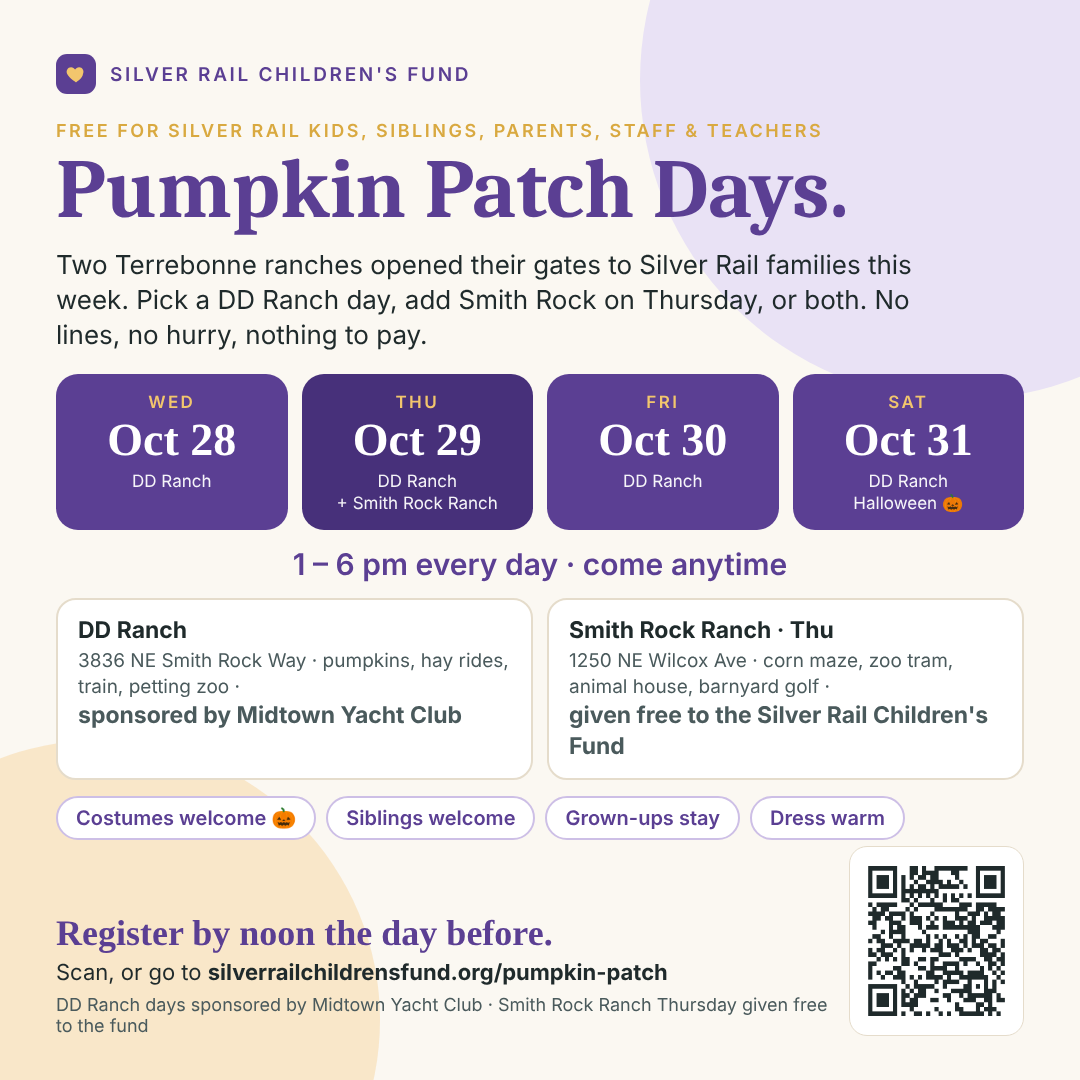
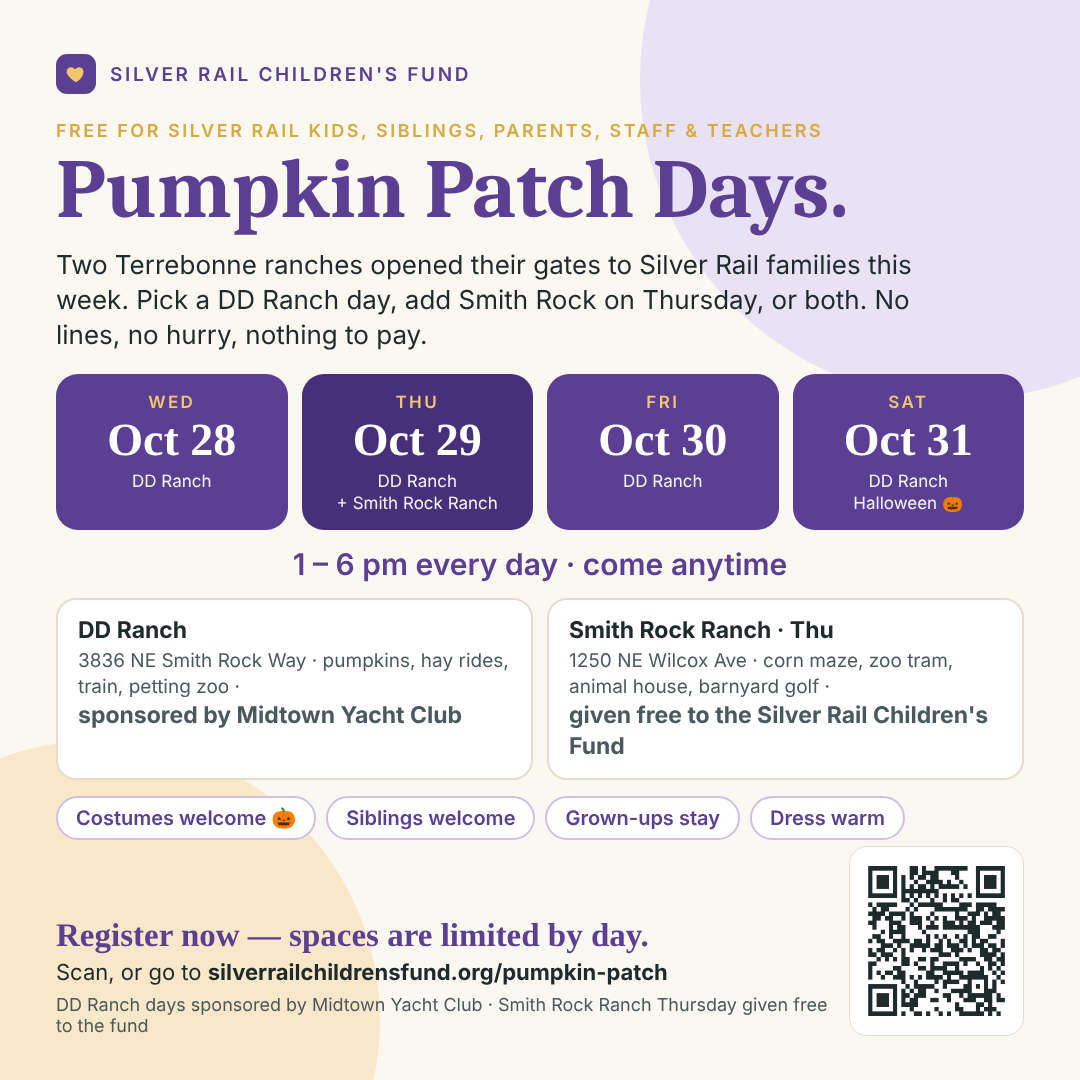
Register now, spaces limited by day

Changed region(s): [[0.0611, 0.8556, 0.6111, 0.8861]]

diff --git a/pumpkin-patch.html b/pumpkin-patch.html
@@ -177,7 +177,7 @@ footer.sf .sf-legal a{color:var(--ink-2)}
     <h1>Four afternoons at the patch, for Silver Rail families.</h1>
     <p class="lede">Two Terrebonne ranches have opened their gates to Silver Rail families this week, <b>1 pm to 6 pm each day, free for Silver Rail kids, their siblings, and their parents, and for Silver Rail staff and teachers and their children</b>. <b>DD Ranch</b> is hosting Wednesday through Saturday, October 28–31, with Silver Rail kids' admission paid by Midtown Yacht Club. <b>Smith Rock Ranch</b> is hosting Thursday, October 29, as an in-kind donation to the fund. Pick a DD Ranch day, come to Smith Rock on Thursday, or do both. Come as you are.</p>
     <p class="lede" style="font-size:1.05rem">Why a pumpkin patch? Because for a child who was at Silver Rail on October 15, an ordinary fall afternoon with classmates is not a break from recovery. It is recovery. These are the fund's first outings, and they're the ones we set out to make happen on day one.</p>
-    <a class="btn" href="#register">Register your family</a>
+    <a class="btn" href="#register">Register now — spaces are limited by day</a>
   </div>
 </div>
 
@@ -226,7 +226,7 @@ footer.sf .sf-legal a{color:var(--ink-2)}
 <section id="register">
   <div class="wrap">
     <div class="eyebrow">Register</div>
-    <h2>Tell us your day, or days.</h2>
+    <h2>Register now. Spaces are limited by day.</h2>
     <p class="note" style="max-width:640px">One form per family. Register by <b>noon the day before</b> so we can give the ranch a headcount and have you on the will-call list. Your answers go to the fund's own private Google Workspace and nowhere else. Not registered with the fund yet? That's fine; this form is all you need this week. Silver Rail staff and teachers: use the same form and pick the staff option.</p>
     <div class="kids" style="max-width:720px;margin-bottom:18px">
       <strong>What you're agreeing to when you register</strong>
